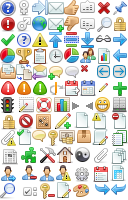
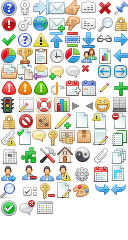
! convert mod page img tag to span tag ! remove unused images, add some to generic_icons ! More post alike PM receive list.

diff --git a/Themes/default/css/index.css b/Themes/default/css/index.css
@@ -1787,7 +1787,7 @@ tr.windowbg td, tr.windowbg2 td, .table_grid tr td {
 }
 /* Top row */
 .generic_icons.help {
-	background-position: 0 0;
+	background-position: -1px 0;
 	margin: 0 5px 3px 0;
 }
 .generic_icons.gender_Female {
@@ -1797,7 +1797,7 @@ tr.windowbg td, tr.windowbg2 td, .table_grid tr td {
 	background-position: -32px 0;
 }
 .generic_icons.mail {
-	background-position: -48px 0;
+	background-position: -49px 0;
 }
 .generic_icons.liked_users, .generic_icons.liked_messages, .generic_icons.like {
 	background-position: -64px 0;
@@ -1864,7 +1864,7 @@ tr.windowbg td, tr.windowbg2 td, .table_grid tr td {
 	background-position: -32px -48px;
 }
 .generic_icons.history, .generic_icons.time_online, .generic_icons.scheduled {
-	background-position: -48px -48px;
+	background-position: -49px -48px;
 }
 .generic_icons.views {
 	background-position: -64px -48px;
@@ -1930,7 +1930,7 @@ tr.windowbg td, tr.windowbg2 td, .table_grid tr td {
 }
 /* 7th row */
 .generic_icons.warning, .generic_icons.moderate {
-	background-position: 0 -98px;
+	background-position: 0 -97px;
 }
 .generic_icons.themes {
 	background-position: -19px -97px;
@@ -1957,7 +1957,7 @@ tr.windowbg td, tr.windowbg2 td, .table_grid tr td {
 .generic_icons.security {
 	background-position: 0 -114px;
 }
-.generic_icons.ban {
+.generic_icons.ban, .generic_icons.ignore {
 	background-position: -18px -113px;
 }
 .generic_icons.boards  {
@@ -2011,7 +2011,7 @@ tr.windowbg td, tr.windowbg2 td, .table_grid tr td {
 	background-position: -22px -148px;
 }
 .generic_icons.maintain, .generic_icons.admin {
-	background-position: -39px -148px;
+	background-position: -39px -147px;
 }
 .generic_icons.administration, .generic_icons.home {
 	background-position: -57px -147px;
@@ -2036,7 +2036,7 @@ tr.windowbg td, tr.windowbg2 td, .table_grid tr td {
 	background-position: -39px -166px;
 }
 .generic_icons.members_watched {
-	background-position: -55px -166px;
+	background-position: -55px -165px;
 }
 .generic_icons.corefeatures, .generic_icons.settings, .generic_icons.manrules, .generic_icons.manlabels {
 	background-position: -75px -166px;
@@ -2069,6 +2069,16 @@ tr.windowbg td, tr.windowbg2 td, .table_grid tr td {
 }
 .generic_icons.change_menu {
 	background-position: -110px -185px;
+}
+/* 13th row */
+.generic_icons.approve {
+	background-position: -1px -200px;
+}
+.generic_icons.close {
+	background-position: -19px -200px;
+}
+.generic_icons.details {
+	background-position: -37px -200px;
 }
 /* Styles for (fatal) errors.
 ------------------------------------------------- */
@@ -2121,10 +2131,10 @@ tr.windowbg td, tr.windowbg2 td, .table_grid tr td {
 ------------------------------------------------- */
 
 .noticebox:before {
-	background-position: -16px -80px;
+	background-position: -16px -81px;
 }
 .infobox:before {
-	background-position: -32px -80px;
+	background-position: -32px -81px;
 }
 .noticebox {
 	color: #666;
@@ -3873,4 +3883,11 @@ h3.profile_hd {
 .display_title {
 	font-weight: normal;
 	font-size: 26px;
+}
+
+#reported_posts .generic_icons {
+	margin: -3px 3px 0 0;
+}
+#modcenter .generic_icons {
+	margin: -3px -3px 0 0;
 }

diff --git a/Themes/default/ReportedContent.template.php b/Themes/default/ReportedContent.template.php
@@ -32,12 +32,12 @@ function template_reported_posts()
 		</div>';
 
 	// Make the buttons.
-	$close_button = create_button('close.png', $context['view_closed'] ? 'mc_reportedp_open' : 'mc_reportedp_close', $context['view_closed'] ? 'mc_reportedp_open' : 'mc_reportedp_close', 'class="centericon"');
-	$details_button = create_button('details.png', 'mc_reportedp_details', 'mc_reportedp_details', 'class="centericon"');
-	$ignore_button = create_button('ignore.png', 'mc_reportedp_ignore', 'mc_reportedp_ignore', 'class="centericon"');
-	$unignore_button = create_button('ignore.png', 'mc_reportedp_unignore', 'mc_reportedp_unignore', 'class="centericon"');
-	$ban_button = create_button('close.png', 'mc_reportedp_ban', 'mc_reportedp_ban', 'class="centericon"');
-	$delete_button = create_button('delete.png', 'mc_reportedp_delete', 'mc_reportedp_delete', 'class="centericon"');
+	$close_button = create_button('close', $context['view_closed'] ? 'mc_reportedp_open' : 'mc_reportedp_close', $context['view_closed'] ? 'mc_reportedp_open' : 'mc_reportedp_close');
+	$details_button = create_button('details', 'mc_reportedp_details', 'mc_reportedp_details');
+	$ignore_button = create_button('ignore', 'mc_reportedp_ignore', 'mc_reportedp_ignore');
+	$unignore_button = create_button('ignore', 'mc_reportedp_unignore', 'mc_reportedp_unignore');
+	$ban_button = create_button('close', 'mc_reportedp_ban', 'mc_reportedp_ban');
+	$delete_button = create_button('delete', 'mc_reportedp_delete', 'mc_reportedp_delete');
 
 	foreach ($context['reports'] as $report)
 	{
@@ -395,11 +395,11 @@ function template_reported_members()
 		</div>';
 
 	// Make the buttons.
-	$close_button = create_button('close.png', $context['view_closed'] ? 'mc_reportedp_open' : 'mc_reportedp_close', $context['view_closed'] ? 'mc_reportedp_open' : 'mc_reportedp_close', 'class="centericon"');
-	$details_button = create_button('details.png', 'mc_reportedp_details', 'mc_reportedp_details', 'class="centericon"');
-	$ignore_button = create_button('ignore.png', 'mc_reportedp_ignore', 'mc_reportedp_ignore', 'class="centericon"');
-	$unignore_button = create_button('ignore.png', 'mc_reportedp_unignore', 'mc_reportedp_unignore', 'class="centericon"');
-	$ban_button = create_button('close.png', 'mc_reportedp_ban', 'mc_reportedp_ban', 'class="centericon"');
+	$close_button = create_button('close', $context['view_closed'] ? 'mc_reportedp_open' : 'mc_reportedp_close', $context['view_closed'] ? 'mc_reportedp_open' : 'mc_reportedp_close');
+	$details_button = create_button('details', 'mc_reportedp_details', 'mc_reportedp_details');
+	$ignore_button = create_button('ignore', 'mc_reportedp_ignore', 'mc_reportedp_ignore');
+	$unignore_button = create_button('ignore', 'mc_reportedp_unignore', 'mc_reportedp_unignore');
+	$ban_button = create_button('close', 'mc_reportedp_ban', 'mc_reportedp_ban');
 
 	foreach ($context['reports'] as $report)
 	{

diff --git a/Themes/default/PersonalMessage.template.php b/Themes/default/PersonalMessage.template.php
@@ -298,10 +298,6 @@ function template_folder()
 				</li>';
 				}
 
-				if ($message['can_report'])
-					echo '
-				<li class="report_link"><a href="' . $scripturl . '?action=pm;sa=report;l=' . $context['current_label_id'] . ';pmsg=' . $message['id'] . '">' . $txt['pm_report_to_admin'] . '</a></li>';
-
 		// Show the IP to this user for this post - because you can moderate?
 		if (!empty($context['can_moderate_forum']) && !empty($message['member']['ip']))
 			echo '
@@ -401,6 +397,39 @@ function template_folder()
 
 			echo '
 				</div>
+			</div>
+			<div class="post">
+				<div class="inner" id="msg_', $message['id'], '"', '>', $message['body'], '</div>';
+
+			// Are there any custom profile fields for above the signature?
+			if (!empty($message['member']['custom_fields']))
+			{
+				$shown = false;
+				foreach ($message['member']['custom_fields'] as $custom)
+				{
+					if ($custom['placement'] != 2 || empty($custom['value']))
+						continue;
+					if (!$shown)
+					{
+						$shown = true;
+						echo '
+				<div class="custom_fields_above_signature">
+					<ul class="reset nolist">';
+					}
+					echo '
+						<li>', $custom['value'], '</li>';
+				}
+				if ($shown)
+					echo '
+					</ul>
+				</div>';
+			}
+
+			if ($message['can_report'])
+			echo '
+				<a href="' . $scripturl . '?action=pm;sa=report;l=' . $context['current_label_id'] . ';pmsg=' . $message['id'] . '" class="floatright">' . $txt['pm_report_to_admin'] . '</a>';
+
+			echo '
 				<ul class="reset smalltext quickbuttons">';
 
 			// Show reply buttons if you have the permission to send PMs.
@@ -431,34 +460,7 @@ function template_folder()
 					<li><input type="checkbox" name="pms[]" id="deletedisplay', $message['id'], '" value="', $message['id'], '" onclick="document.getElementById(\'deletelisting', $message['id'], '\').checked = this.checked;" class="input_check"></li>';
 
 			echo '
-				</ul>
-			</div>
-			<div class="post">
-				<div class="inner" id="msg_', $message['id'], '"', '>', $message['body'], '</div>';
-
-			// Are there any custom profile fields for above the signature?
-			if (!empty($message['member']['custom_fields']))
-			{
-				$shown = false;
-				foreach ($message['member']['custom_fields'] as $custom)
-				{
-					if ($custom['placement'] != 2 || empty($custom['value']))
-						continue;
-					if (!$shown)
-					{
-						$shown = true;
-						echo '
-				<div class="custom_fields_above_signature">
-					<ul class="reset nolist">';
-					}
-					echo '
-						<li>', $custom['value'], '</li>';
-				}
-				if ($shown)
-					echo '
-					</ul>
-				</div>';
-			}
+				</ul>';
 
 			// Show the member's signature?
 			if (!empty($message['member']['signature']) && empty($options['show_no_signatures']) && $context['signature_enabled'])

diff --git a/Sources/Subs.php b/Sources/Subs.php
@@ -3593,7 +3593,7 @@ function create_button($name, $alt, $label = '', $custom = '', $force_use = fals
 	if (!$settings['use_image_buttons'])
 		return $txt[$alt];
 	elseif (!empty($settings['use_buttons']))
-		return '<img src="' . $settings['images_url'] . '/buttons/' . $name . '" alt="' . $txt[$alt] . '" ' . $custom . '>' . ($label != '' ? '&nbsp;<strong>' . $txt[$label] . '</strong>' : '');
+		return '<span class="generic_icons ' . $name . '" alt="' . $txt[$alt] . '"></span>' . ($label != '' ? '&nbsp;<strong>' . $txt[$label] . '</strong>' : '');
 	else
 		return '<img src="' . $settings['lang_images_url'] . '/' . $name . '" alt="' . $txt[$alt] . '" ' . $custom . '>';
 }

diff --git a/Themes/default/ModerationCenter.template.php b/Themes/default/ModerationCenter.template.php
@@ -366,8 +366,8 @@ function template_unapproved_posts()
 		</div>';
 
 	// Make up some buttons
-	$approve_button = create_button('approve.png', 'approve', 'approve', 'class="centericon"');
-	$remove_button = create_button('delete.png', 'remove_message', 'remove', 'class="centericon"');
+	$approve_button = create_button('approve', 'approve', 'approve');
+	$remove_button = create_button('delete', 'remove_message', 'remove');
 
 	// No posts?
 	if (empty($context['unapproved_items']))
